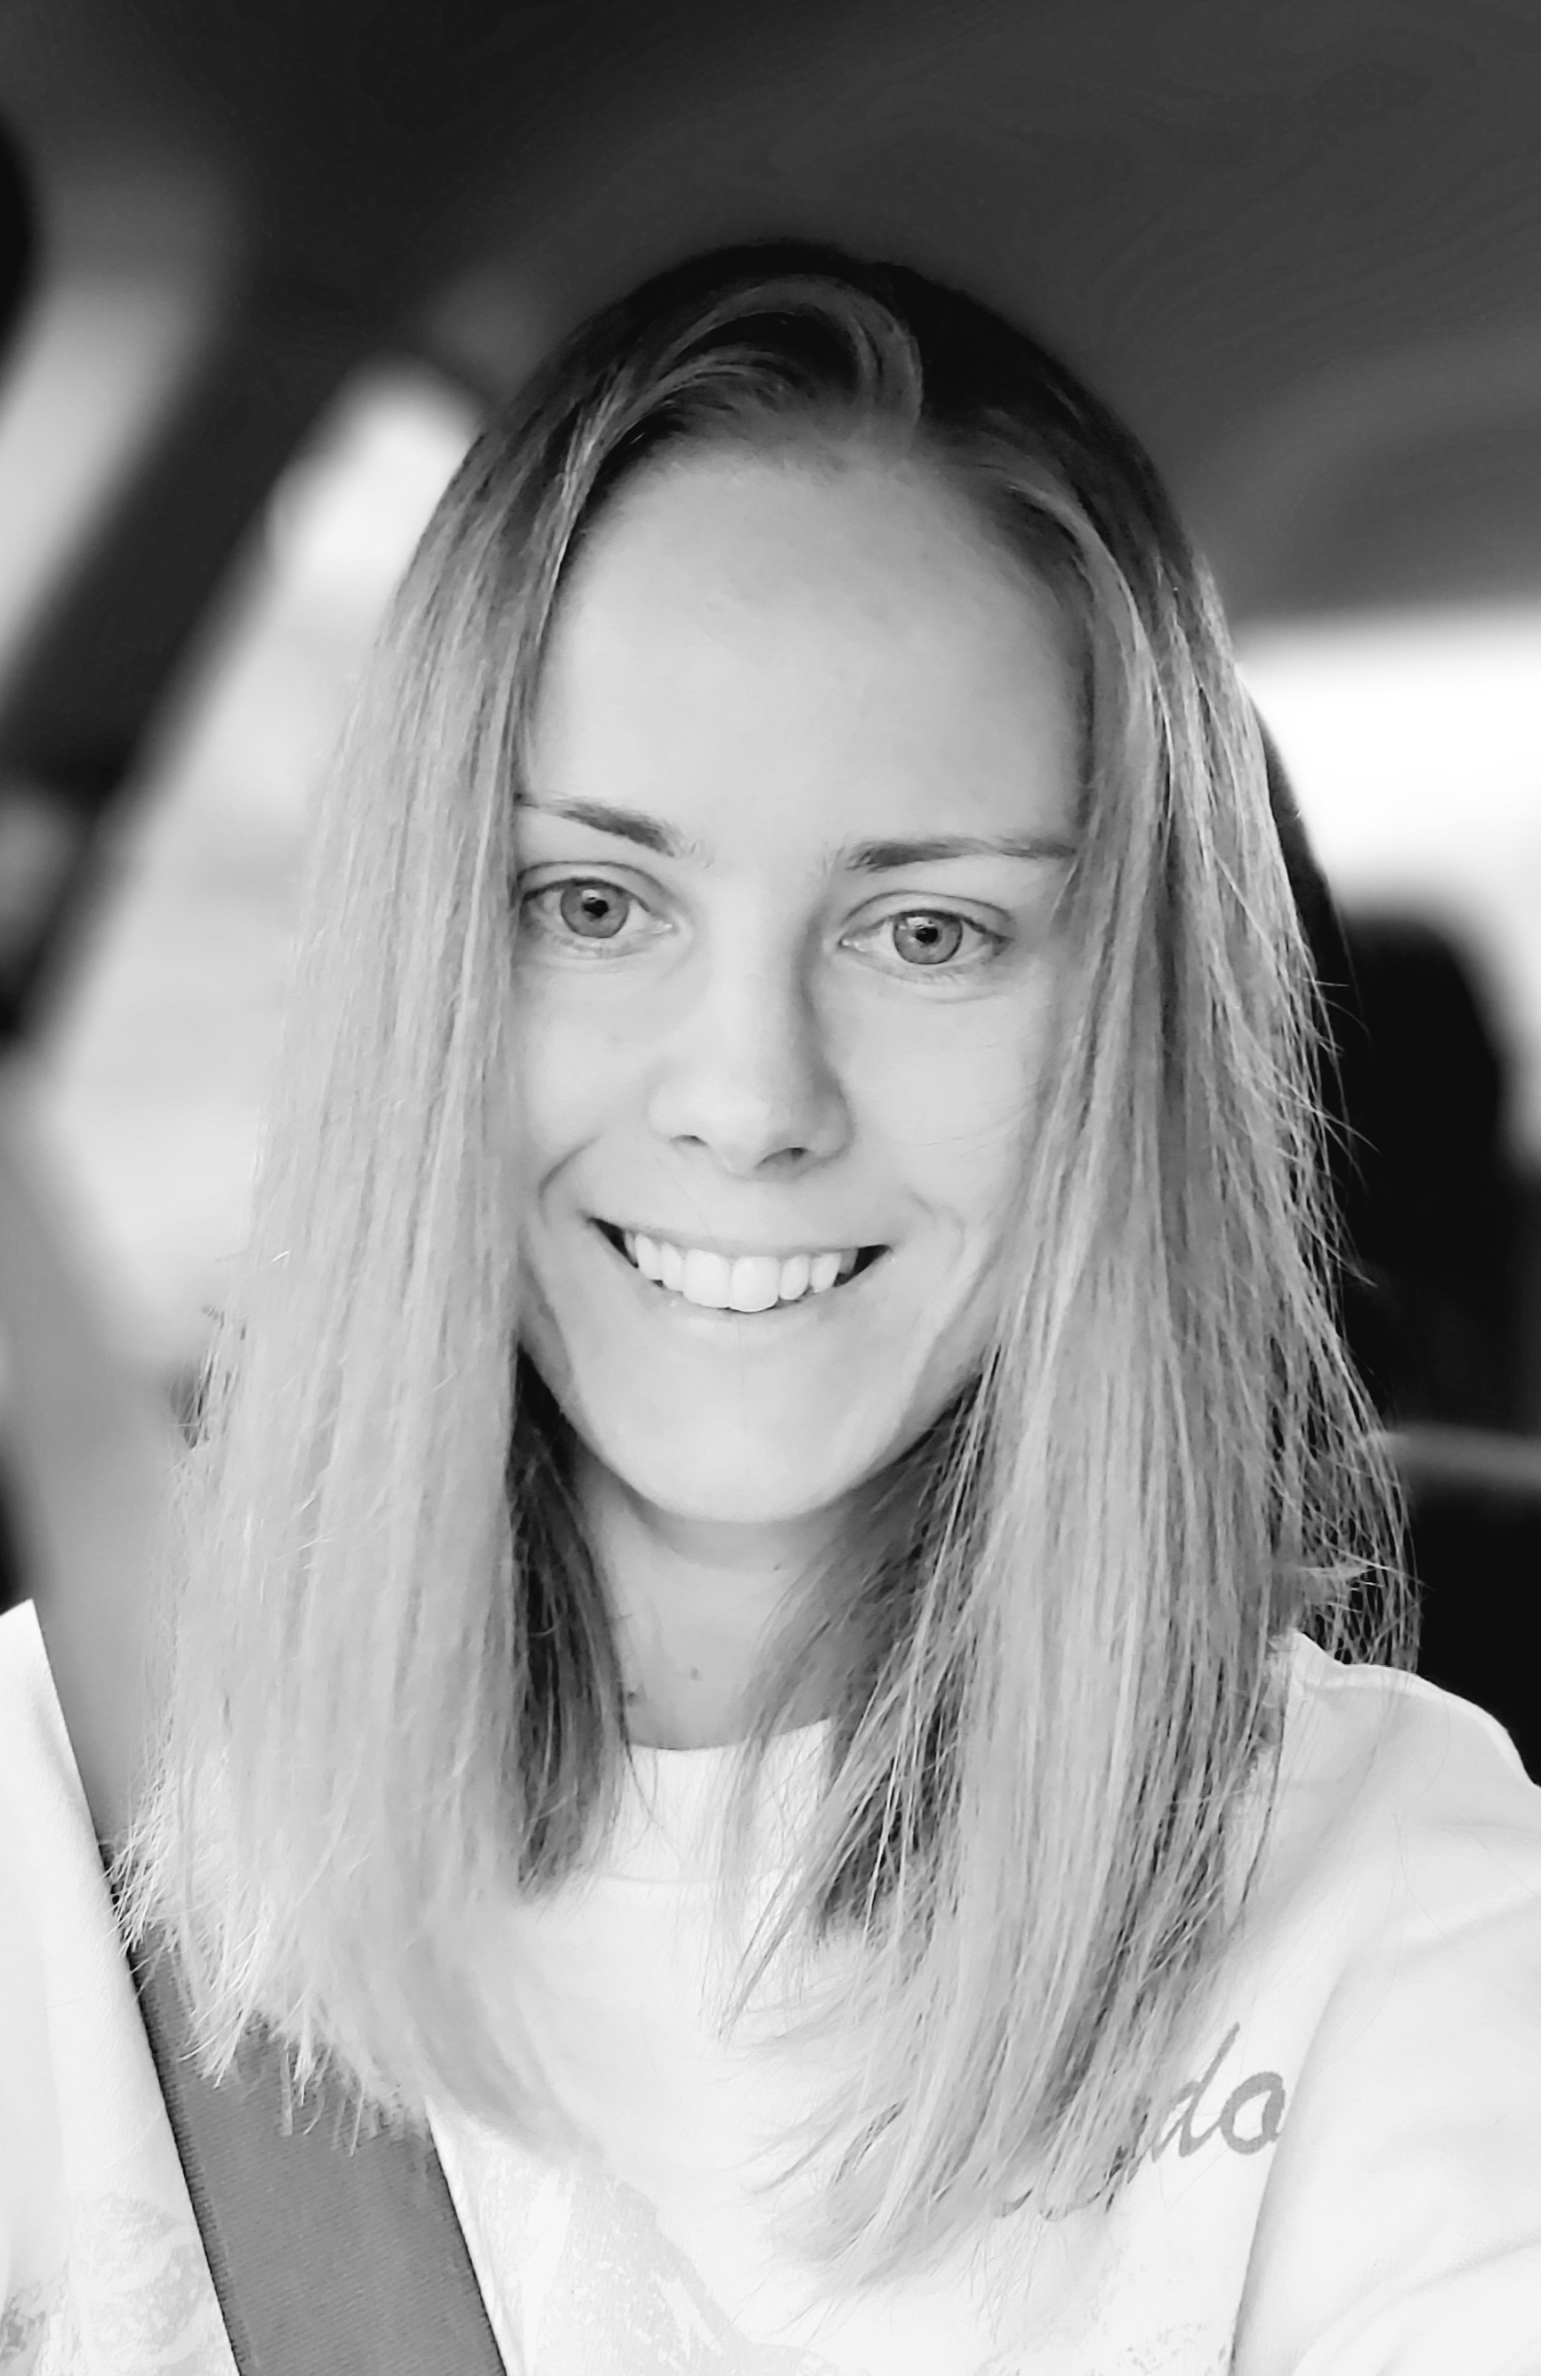
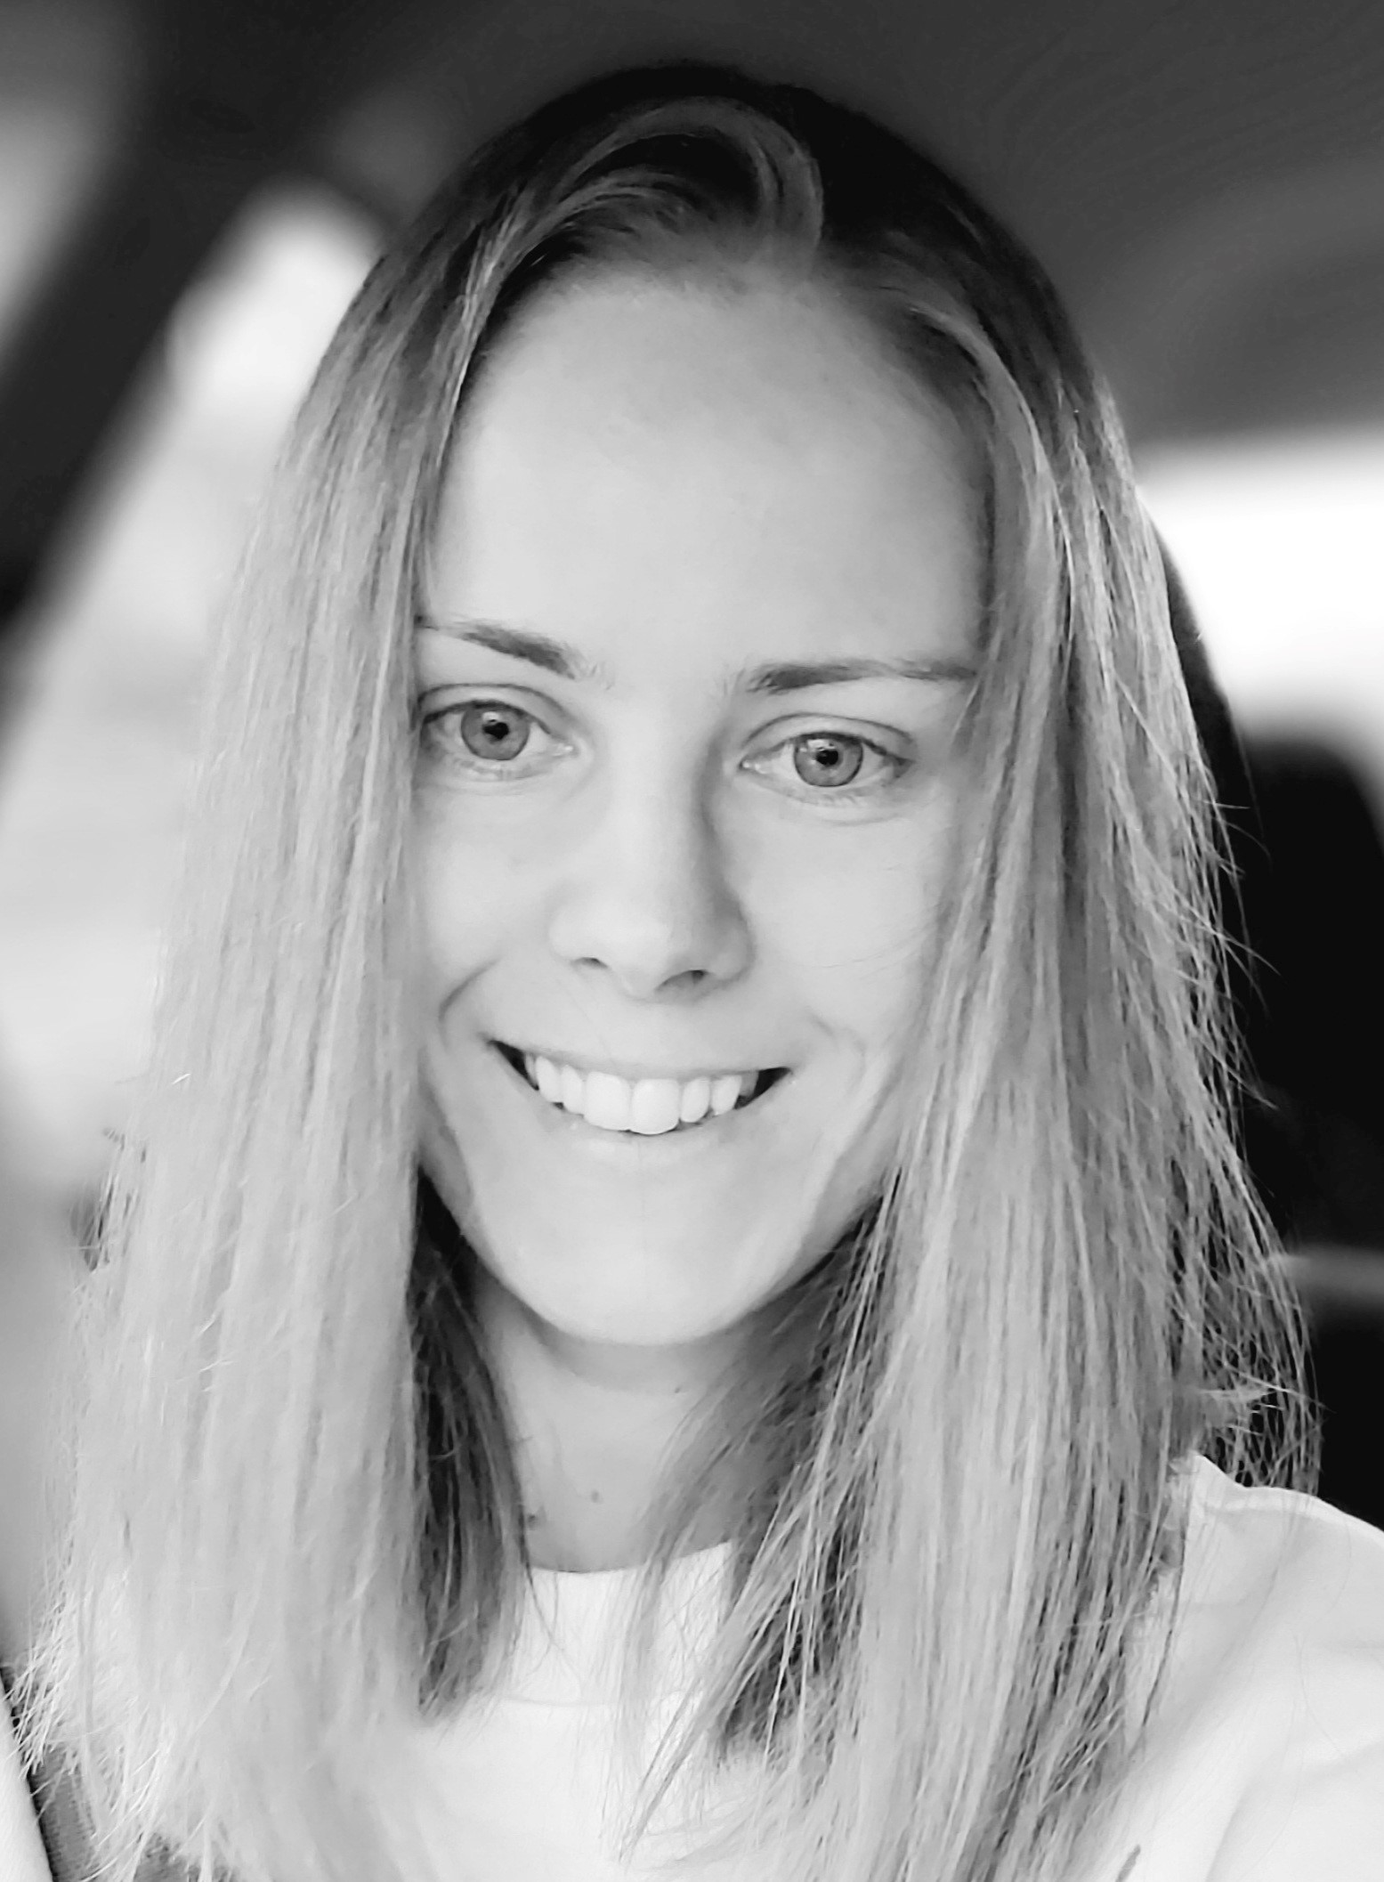
Updated @media in CSS and hided my photo on the small device

diff --git a/index.html b/index.html
@@ -70,30 +70,27 @@
       <h2>Front-end developer</h2>
     </div>
 
-    <div class="container">
-      <div class="description">
-        <div class="row">
-          <div class="col-md-4">
-            <img
-              src="/images/my-photo.jpg"
-              class="img-fluid p-3 border mt-5 d-none d-lg-block my-photo"
-            />
-          </div>
-          <div class="col-md-8">
-            <h3 class="mt-5 about-me">Who I am</h3>
-            <p class="about-me-paragraph">
-              My name is Ivana. I am a Front-end developer from Slovakia based
-              in USA. I've never thought I ever try coding. Even though my
-              husband told me multiple times that I should try it because I
-              might like. To be honest I was scared and didn't think I could do
-              it. Every time I saw a code on his computer it didn't make sense
-              for me. But here I am, learning coding. I like it so far and I am
-              excited to keep learning and see what I can do and create. But I
-              would be lying if I say that he is the one who convicted me. I can
-              thank to my friend who has started with coding and got me exvited
-              to try. Thank you T.
-            </p>
-          </div>
+    <div class="about-section container">
+      <div class="row">
+        <div class="col-md-4">
+          <img
+            src="/images/my-photo.jpg"
+            class="img-fluid p-3 border mt-5 my-photo"
+          />
+        </div>
+        <div class="col-md-8">
+          <h3 class="mt-5 about-me">Who I am</h3>
+          <p class="about-me-paragraph">
+            My name is Ivana. I am a Front-end developer from Slovakia based in
+            USA. I've never thought I ever try coding. Even though my husband
+            told me multiple times that I should try it because I might like. To
+            be honest I was scared and didn't think I could do it. Every time I
+            saw a code on his computer it didn't make sense for me. But here I
+            am, learning coding. I like it so far and I am excited to keep
+            learning and see what I can do and create. But I would be lying if I
+            say that he is the one who convicted me. I can thank to my friend
+            who has started with coding and got me exvited to try. Thank you T.
+          </p>
         </div>
       </div>
     </div>

diff --git a/styles/style.css b/styles/style.css
@@ -7,19 +7,22 @@
     text-align: center;
     font-size: 36px;
   }
-  .about-me {
+ 
+}
+
+@media (max-width: 576px) {
+   .my-photo {
+    display:none;
+   }
+    .about-me {
     text-align: center;
   }
   .about-me-paragraph {
     text-align: center;
   }
-}
-
-@media (max-width: 576px) {
   .F45-project {
     text-align: center;
   }
-
   .project-paragraph {
     text-align: center;
   }
@@ -47,7 +50,7 @@ h1,
 h2,
 h3 {
   font-family: var(--heading-font);
-  font-weight: bold;
+  font-weight:700;
 }
 h1 {
   font-size: 60px;
@@ -84,7 +87,7 @@ footer {
 }
 .nav-item a.nav-link {
   color: var(--primary-color);
-  opacity: 0.7;
+  opacity: 0.6;
 }
 .nav-item a.nav-link.active {
   color: var(--secondary-color);
@@ -92,19 +95,19 @@ footer {
 .bar-name {
   color: var(--secondary-color);
   font-size: 30px;
-  opacity: 0.7;
+  opacity: 0.6;
 }
 
 .hero {
   text-align: center;
   margin-bottom: 50px;
 }
-.description {
+.about-section {
   padding-bottom: 100px;
 }
 
 .my-photo {
-  max-width: 100%;
+  width:500px;
 }
 
 .contact-platforms {
